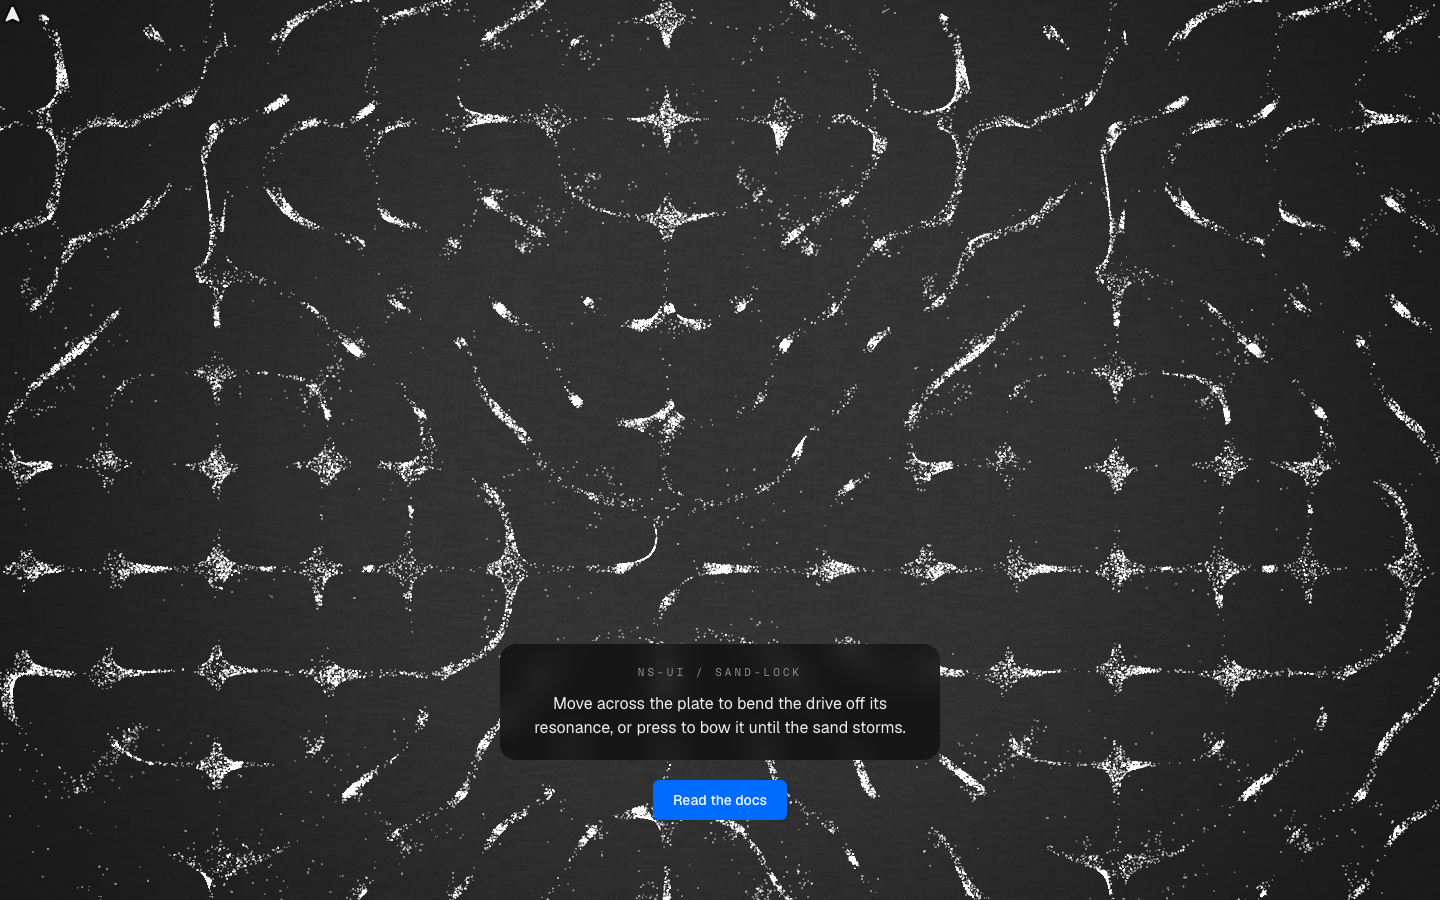
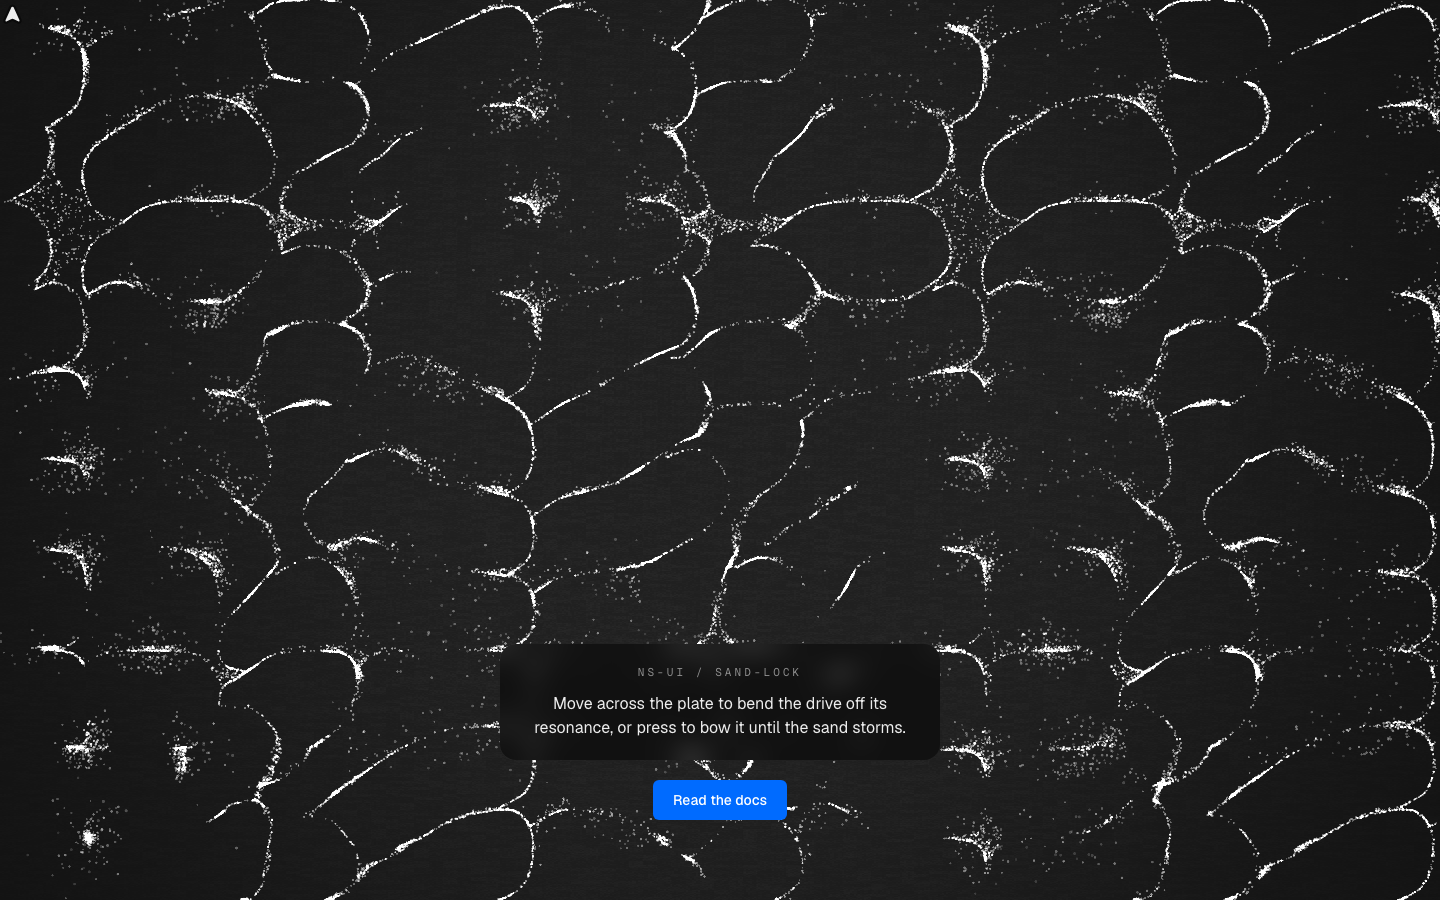
fix(sand-lock): flashing and pointer response
Addresses two defects the owner reported: a visible flash during the drive
cycle, treated as a photosensitivity concern on a full-bleed surface, and a
pointer interaction that did not read as doing anything.

diff --git a/registry/loud/sand-lock/component.tsx b/registry/loud/sand-lock/component.tsx
@@ -216,14 +216,16 @@ void main() {
   float fx = fieldAt(p + vec2(e.x, 0.0)) - fieldAt(p - vec2(e.x, 0.0));
   float fy = fieldAt(p + vec2(0.0, e.y)) - fieldAt(p - vec2(0.0, e.y));
 
-  // the plate is flexing, not static: the normal is tilted by the instantaneous
-  // displacement, whose sign oscillates far faster than anything the eye can
-  // track, so what survives is a shimmer riding on the standing envelope
-  // ...but the sheen must never pass through zero, or a frame sampled at the
-  // instant the plate is flat through its rest position shows unlit steel with
-  // no modal structure in it at all
-  float osc = sin(u_time * 41.0);
-  float phase = osc >= 0.0 ? mix(0.55, 1.0, osc) : -mix(0.55, 1.0, -osc);
+  // The plate flexes far faster than any display can show it. Lighting the
+  // steel from the INSTANTANEOUS deflection means sampling that oscillation at
+  // the refresh rate, and the sign flip aliases straight down into a full-bleed
+  // strobe: measured at 6.5 Hz, a 3.3% mean-luminance sawtooth with 0.024
+  // between consecutive frames — a photosensitivity hazard on a surface this
+  // size, and the flicker the plate was reported for. What an eye (or a camera)
+  // integrates over any interval it can resolve is the ENVELOPE of the motion,
+  // so the sheen rides on that instead, strictly positive and with only a slow
+  // continuous breath left in it so the steel is not dead.
+  float phase = 0.88 + 0.12 * sin(u_time * 0.55);
   vec3 n = normalize(vec3(-fx * 5.4 * u_amp * phase, -fy * 5.4 * u_amp * phase, 1.0));
   vec3 l = normalize(vec3(0.42, 0.66, 0.62));
   float diff = max(dot(n, l), 0.0);
@@ -484,11 +486,36 @@ export function SandLock({
     // grains back on live steel; it happens while the plate is already storming
     // between two modes, so what you see is the plate reconfiguring, which is
     // what it is — a different clamping gives a different plate.
+    // It has to SLIDE there rather than cut, though. Reseating the lattice in a
+    // single frame translates every nodal line at once, which is a step change
+    // in what the whole viewport is showing — measured as the only luminance
+    // discontinuity left after the sheen was fixed (0.0067 between consecutive
+    // frames, against a 0.0009 p95 elsewhere). Easing it over the sweep costs
+    // one table rebuild per frame while it is in flight (a few thousand sines,
+    // against a few hundred thousand multiply-adds for the field) and reads as
+    // the plate being re-clamped, which is what it is.
     let orgX = 0;
     let orgY = 0;
+    let orgTX = 0;
+    let orgTY = 0;
+    const ORG_TAU = 0.75;
     const shiftLattice = () => {
-      orgX = (orgX + cell * 0.381966) % (cell * 2);
-      orgY = (orgY + cell * 0.236068) % (cell * 2);
+      orgTX += cell * 0.381966;
+      orgTY += cell * 0.236068;
+    };
+    const stepLattice = (dt: number) => {
+      if (orgX === orgTX && orgY === orgTY) return;
+      const k = 1 - Math.exp(-dt / ORG_TAU);
+      orgX += (orgTX - orgX) * k;
+      orgY += (orgTY - orgY) * k;
+      if (Math.abs(orgTX - orgX) < 0.02 && Math.abs(orgTY - orgY) < 0.02) {
+        // land exactly, then fold both back into one lattice period so the
+        // offsets cannot drift off into a range where the fold loses precision
+        orgTX %= cell * 2;
+        orgTY %= cell * 2;
+        orgX = orgTX;
+        orgY = orgTY;
+      }
       buildTables();
     };
 
@@ -619,12 +646,29 @@ export function SandLock({
       const mob = MOBILITY * cell * dt * (0.35 + 0.85 * coh);
       // off-resonance the plate has no stable zero set, so the same physical
       // bouncing reads as a storm; on resonance it reads as settling
-      const chaos = 0.5 + 2.1 * (1 - coh) + bowAmt * 1.5;
+      const chaos = 0.5 + 2.1 * (1 - coh) + bowAmt * 2.2;
       const jit = DIFFUSE * cell * Math.sqrt(dt) * chaos;
       const maxStep = cell * 0.09;
-      const bowR = Math.max(60, Math.min(cssW, cssH) * 0.22);
+      // The pointer BOWS the plate, and a bow injects DRIVE, not a force on the
+      // sand. The first version only shoved grains sideways around the contact
+      // and shaved a little off the friction threshold, which is why it read as
+      // doing nothing: a settled grain sits where the local amplitude is a
+      // couple of percent, an order below the threshold, so it was never
+      // unparked and the figure underneath the cursor simply did not move. The
+      // contact now RAISES the local amplitude — the steel under the pointer is
+      // being driven harder — which lifts those grains over the threshold and
+      // lets the ordinary diffusion throw them off the line. The radial shove
+      // stays as the wake of the contact, but scaled by dt, because the old one
+      // was per-frame and so meant something different on every machine.
+      const bowR = Math.max(90, Math.min(cssW, cssH) * 0.34);
       const bowR2 = bowR * bowR;
-      const bowing = havePointer ? 0.55 + bowAmt * 1.2 : 0;
+      const bowing = presence * (0.3 + bowAmt * 1.25);
+      // the wake is deliberately weaker than the energy injection: a strong
+      // radial shove alone just sweeps a clean bald disc, which reads as an
+      // eraser. Most of what happens under the contact should be the sand being
+      // THROWN — isotropic, off the line, a storm — with the bow only giving it
+      // a direction.
+      const wake = cell * 0.7 * dt;
 
       for (let i = 0; i < COUNT; i++) {
         let x = gx[i];
@@ -648,9 +692,26 @@ export function SandLock({
         const w01 = (1 - tx) * ty;
         const w11 = tx * ty;
 
-        const amp = absF[a00] * w00 + absF[a10] * w10 + absF[a01] * w01 + absF[a11] * w11;
+        let amp = absF[a00] * w00 + absF[a10] * w10 + absF[a01] * w01 + absF[a11] * w11;
         const dx = gradX[a00] * w00 + gradX[a10] * w10 + gradX[a01] * w01 + gradX[a11] * w11;
         const dy = gradY[a00] * w00 + gradY[a10] * w10 + gradY[a01] * w01 + gradY[a11] * w11;
+
+        // local energy from the bow, added to the amplitude the grain answers to
+        let pushX = 0;
+        let pushY = 0;
+        if (bowing > 0) {
+          const bx = x - ptrX;
+          const by = y - ptrY;
+          const d2 = bx * bx + by * by;
+          if (d2 < bowR2) {
+            const q = 1 - d2 / bowR2;
+            const bow = q * q * bowing;
+            amp += bow * 0.7;
+            const invd = 1 / Math.sqrt(Math.max(1, d2));
+            pushX = bx * invd * bow * wake;
+            pushY = by * invd * bow * wake;
+          }
+        }
 
         // A grain only goes anywhere while the plate is throwing it. Below a
         // FRICTION threshold on the local amplitude it stays where it is, the
@@ -670,7 +731,7 @@ export function SandLock({
         // The threshold drops as the plate is bowed harder and as the drive
         // loses coherence, so a storm really does put the whole plate back in
         // motion instead of leaving a stale figure stencilled underneath it.
-        const thresh = FRICTION * (1 - 0.55 * bowAmt) * (0.35 + 0.65 * coh);
+        const thresh = FRICTION * (1 - 0.8 * bowAmt) * (0.35 + 0.65 * coh);
         const excess = amp - thresh;
         let stepX: number;
         let stepY: number;
@@ -694,20 +755,8 @@ export function SandLock({
           stepY += (rnd() + rnd() - 1) * s;
         }
 
-        if (bowing > 0) {
-          const px = x - ptrX;
-          const py = y - ptrY;
-          const d2 = px * px + py * py;
-          if (d2 < bowR2) {
-            const f = (1 - d2 / bowR2) * bowing;
-            const inv = 1 / Math.sqrt(Math.max(1, d2));
-            stepX += px * inv * f * cell * 0.05 + (rnd() - 0.5) * f * cell * 0.07;
-            stepY += py * inv * f * cell * 0.05 + (rnd() - 0.5) * f * cell * 0.07;
-          }
-        }
-
-        x += stepX;
-        y += stepY;
+        x += stepX + pushX;
+        y += stepY + pushY;
         if (x < 0) x = -x;
         else if (x > cssW) x = 2 * cssW - x;
         if (y < 0) y = -y;
@@ -779,6 +828,7 @@ export function SandLock({
     let velX = 0;
     let velY = 0;
     let havePointer = false;
+    let presence = 0;
     let bowTarget = 0;
     let bowAmt = 0;
     let rectLeft = 0;
@@ -798,6 +848,12 @@ export function SandLock({
 
     const stepPointer = (dt: number) => {
       bowAmt += (bowTarget - bowAmt) * (1 - Math.exp(-dt * 6));
+      // presence fades the bow in and out instead of switching it. The detune is
+      // now large enough to change which mode the plate is in, so applying it on
+      // the frame the cursor crosses the edge would snap the whole field at once
+      // — the same class of discontinuity as the sheen strobe, just rarer.
+      presence += ((havePointer ? 1 : 0) - presence) * (1 - Math.exp(-dt * 4.5));
+      if (!havePointer && presence < 0.002) presence = 0;
       if (!havePointer || dt <= 0) return;
       const vk = 1 - Math.exp(-dt / VEL_TAU);
       velX += ((tgtX - lastTgtX) / dt - velX) * vk;
@@ -868,9 +924,18 @@ export function SandLock({
       let d = scheduledDrive(t);
       // the pointer BOWS: horizontal position detunes the drive by up to half
       // the local mode spacing, enough to break a locked figure and pull the
-      // neighbouring one in, never enough to take the sweep over
-      const bend = havePointer ? (ptrX / Math.max(1, cssW) - 0.5) * 2 : 0;
-      d *= 1 + (bend * 0.16 + keyDetune * 0.16) * (0.5 + bowAmt);
+      // neighbouring one in, never enough to take the sweep over.
+      // THE SIZE OF THAT NUMBER IS THE WHOLE INTERACTION. The modes in the
+      // sequence are ~1.4x apart and a resonance is only a couple of percent
+      // wide, so an eight percent detune (what this was) walks the drive off the
+      // peak without ever changing WHICH mode dominates: the figure keeps its
+      // shape and only dims, which is indistinguishable from nothing happening.
+      // Half a mode spacing is ~20%, and that is where a neighbour's response
+      // becomes comparable, coherence collapses and the figure actually breaks.
+      // A press bows harder — it also stiffens the plate, so it detunes on its
+      // own and storms the sand even with the pointer sitting dead centre.
+      const bend = presence * (ptrX / Math.max(1, cssW) - 0.5) * 2;
+      d *= 1 + (bend * 0.2 + keyDetune * 0.2) * (1 + 0.5 * bowAmt) + bowAmt * 0.13;
       drive = d;
     };
 
@@ -949,6 +1014,7 @@ export function SandLock({
     const simulate = (dt: number) => {
       simTime += dt;
       advanceSchedule(dt, simTime);
+      stepLattice(dt);
       respond(drive);
       buildField();
       stepGrains(dt);
@@ -1031,6 +1097,10 @@ export function SandLock({
       rectTop = rect.top;
       rectDirty = false;
       cell = Math.min(cssW, cssH) * Math.max(0.25, plateScale);
+      // the lattice offsets are in px, so a cell that just changed size makes an
+      // in-flight slide meaningless: land it rather than let it crawl
+      orgX = orgTX;
+      orgY = orgTY;
       allocGrid();
       scaleIdx = 0;
       overMs = 0;
